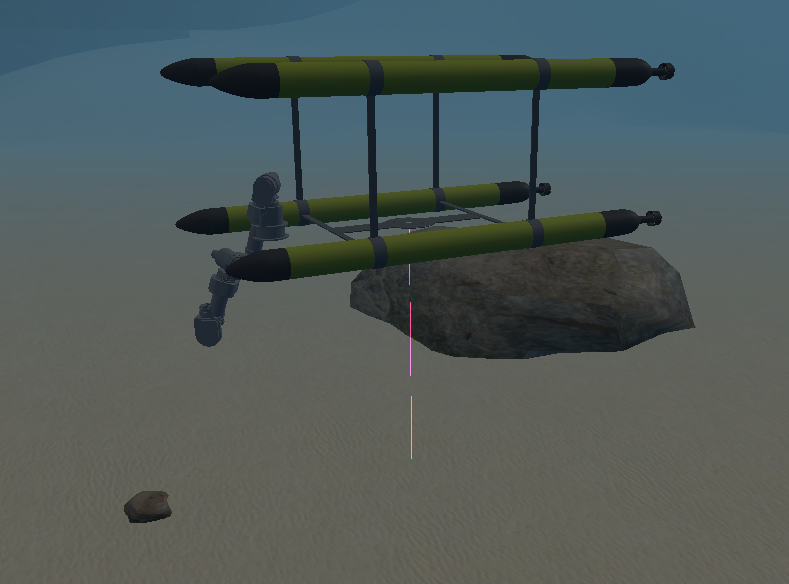
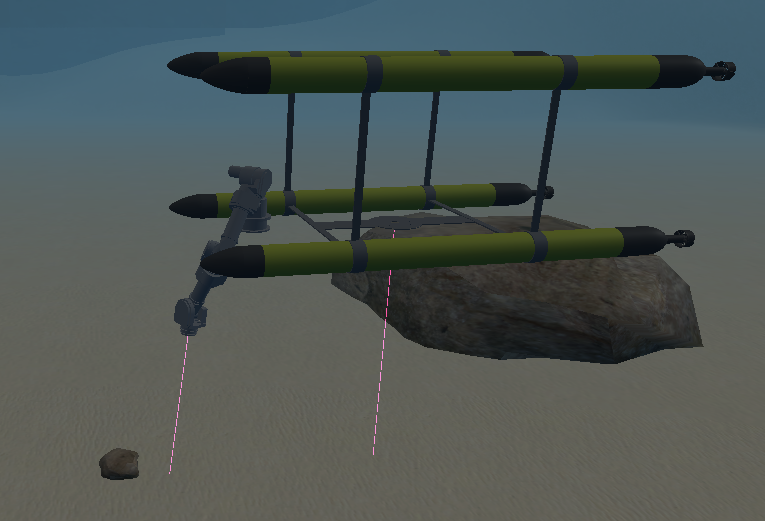
tool orientation and final image

diff --git a/esReport/es1A/MainRobust.m b/esReport/es1A/MainRobust.m
@@ -54,7 +54,7 @@ uvms.p = [10.5 35.5 -36 0 0 pi/2]';
 
 % defines the goal position for the end-effector/tool position task
 uvms.goalPosition = [12.2025   37.3748  -39.8860]';
-uvms.wRg = rotation(0, 0, 0);
+uvms.wRg = rotation(0, pi, pi/2);
 uvms.wTg = [uvms.wRg uvms.goalPosition; 0 0 0 1];
 
 %define the goal position for the vehicle 
@@ -62,7 +62,6 @@ uvms.vehicleGoalPosition = [10.5 37.5 -38]';
 uvms.wRgvehicle = rotation(0, 0, 0);
 %goal frame w.r.t world frameas
 uvms.wTgvehicle = [uvms.wRgvehicle uvms.vehicleGoalPosition; 0 0 0 1];
-
 % defines the tool control point
 uvms.eTt = eye(4);
 
@@ -88,12 +87,10 @@ for t = 0:deltat:end_time
     % the sequence of iCAT_task calls defines the priority
     [Qp, ydotbar] = iCAT_task(uvms.A.ha,    uvms.Jha,    Qp, ydotbar, uvms.xdot.ha,  0.0001,   0.01, 10);
     
-    
-
     [Qp, ydotbar] = iCAT_task(uvms.A.vehicleAtt,    uvms.JvehicleAtt,    Qp, ydotbar, uvms.xdot.vehicleAtt,  0.0001,   0.01, 10);
     [Qp, ydotbar] = iCAT_task(uvms.A.vehiclePos,    uvms.JvehiclePos,    Qp, ydotbar, uvms.xdot.vehiclePos,  0.0001,   0.01, 10);
     
-    [Qp, ydotbar] = iCAT_task(uvms.A.t,    uvms.Jt,    Qp, ydotbar, uvms.xdot.t,  0.0001,   0.01, 10);
+    %[Qp, ydotbar] = iCAT_task(uvms.A.t,    uvms.Jt,    Qp, ydotbar, uvms.xdot.t,  0.0001,   0.01, 10);
     
     [Qp, ydotbar] = iCAT_task(eye(13),     eye(13),    Qp, ydotbar, zeros(13,1),  0.0001,   0.01, 10);    % this task should be the last one
     
